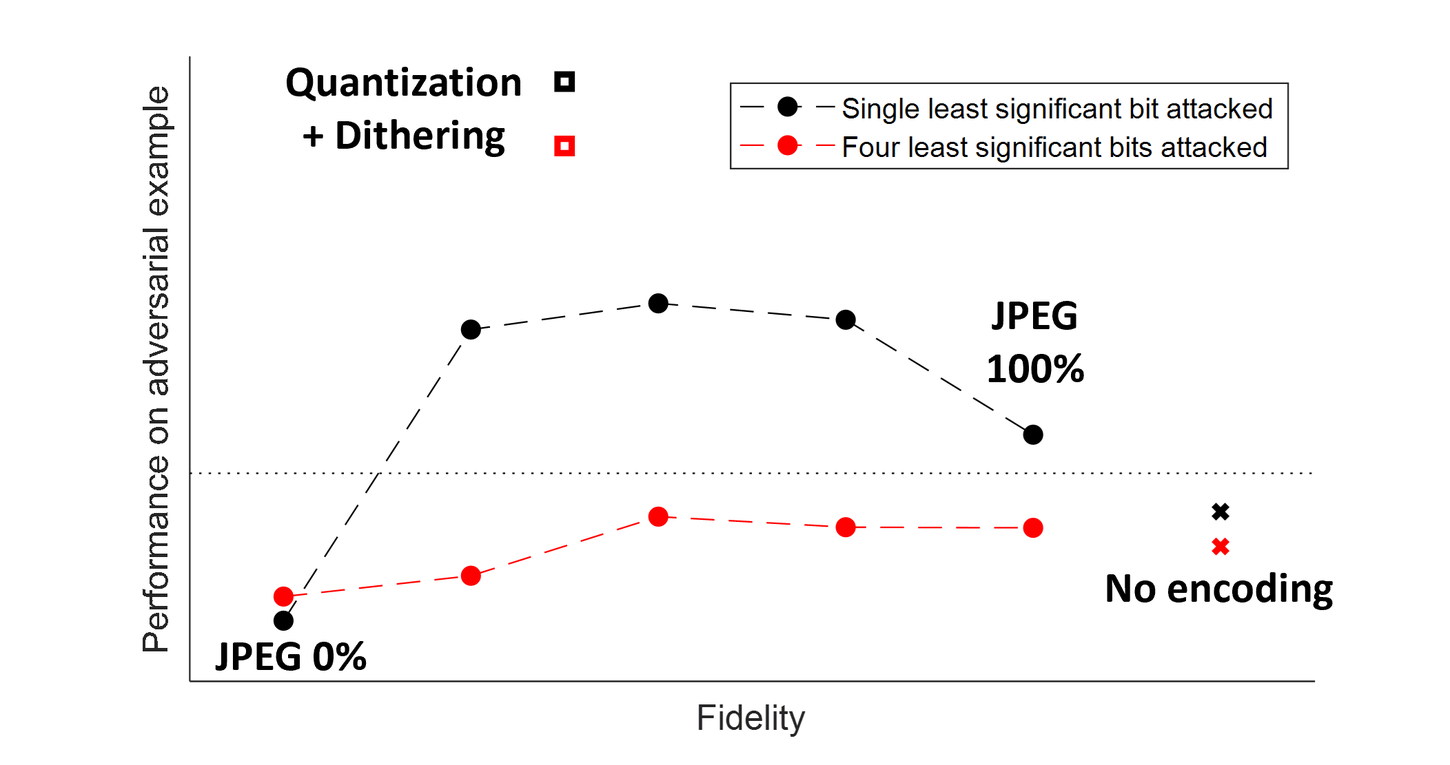
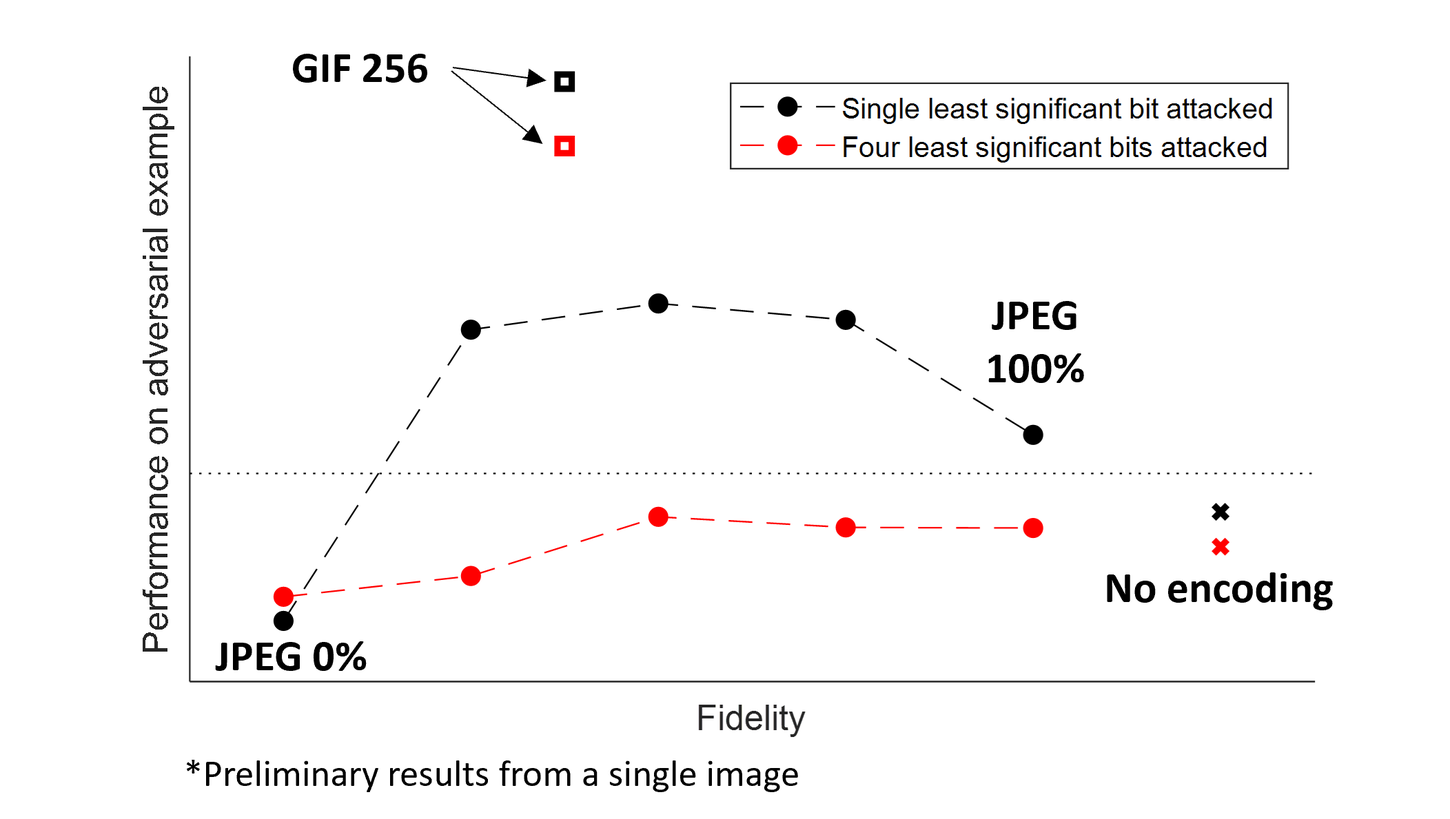
build

diff --git a/docs/searchindex.js b/docs/searchindex.js
@@ -1,1 +1,1 @@
-Search.setIndex({docnames:["compress","critique_50y_fairness","critique_paper2","failing_loudly","index","present_paper10","proposal","survey_of_datasets","uncertainty_quantification"],envversion:{"sphinx.domains.c":2,"sphinx.domains.changeset":1,"sphinx.domains.citation":1,"sphinx.domains.cpp":5,"sphinx.domains.index":1,"sphinx.domains.javascript":2,"sphinx.domains.math":2,"sphinx.domains.python":3,"sphinx.domains.rst":2,"sphinx.domains.std":2,sphinx:56},filenames:["compress.ipynb","critique_50y_fairness.ipynb","critique_paper2.ipynb","failing_loudly.ipynb","index.md","present_paper10.ipynb","proposal.ipynb","survey_of_datasets.ipynb","uncertainty_quantification.ipynb"],objects:{},objnames:{},objtypes:{},terms:{"0":[0,1,3,5,7],"0074":7,"0189":7,"0198":7,"0403":7,"0675":7,"1":[0,1,2,3,6,7,8],"10":[6,7],"11":7,"119":0,"12":7,"128":0,"13":7,"14":7,"15":7,"16":[0,7],"17":7,"1714":7,"18":[1,7],"19":7,"1964":7,"1970":5,"2":[0,3,4,7,8],"20":[0,1],"200":6,"2009":8,"2018":5,"2020":0,"22":7,"24":[2,7],"25":7,"255":7,"26":0,"28":[2,7],"29":7,"2p":5,"2x2":0,"3":[0,3,6,7,8],"30":7,"31":7,"32":7,"33":7,"3398":7,"34":7,"4":[0,7,8],"40":7,"41":7,"43":7,"45":7,"46":7,"48":2,"5":[5,7],"50":[2,4,7],"52":0,"55":[0,2],"58":2,"6":7,"60":[5,7],"6031":7,"6299":7,"64":0,"6414":7,"6452":7,"7":7,"74":0,"7584":7,"79":0,"8":[0,7],"83":7,"84":0,"9":7,"90":7,"92":7,"93":7,"94":7,"9474":7,"95":7,"\u03bc":3,"\u03bc3":3,"case":[0,2],"class":[4,6],"do":[3,4],"export":3,"final":[5,7],"function":[1,4,6,7],"import":0,"new":[3,4],"public":0,"true":[3,7,8],"try":[5,8],"while":[0,5,6],A:[1,2,4,5],At:[5,6],But:5,For:[5,6],If:[2,5],In:[2,3,5,6],Is:3,It:[5,6],No:8,Not:8,One:[0,6],That:5,The:[1,5,6,7,8],There:5,These:2,To:[5,6],_:[5,7],_j:5,_s:7,_x:5,a_1:7,a_2:7,a_3:7,a_4:7,a_5:7,a_6:7,about:[0,2,3,5,6],abroca:7,absolut:[5,7],acc:7,accord:8,account:5,accumul:0,accur:[6,8],accuraci:[0,4,8],achiev:[0,1,6],acoust:8,across:8,act:7,action:2,activ:3,actual:[5,8],ad:5,adapt:4,add:5,addit:6,adv:0,advanc:4,advantag:[6,8],adversari:4,advis:1,affect:5,after:5,ag:[1,2,7],against:4,agent:2,ai:2,air:8,aleator:4,algorithm:[1,7],align:7,all:[5,6,7],allow:[5,6],almost:5,alreadi:0,also:[2,5],alter:0,alwai:1,amazon:6,ambigu:5,amer:7,amount:6,an:[0,2,4,5,8],analysi:[1,2,3],ani:[0,5,6],anoth:6,answer:1,anyon:1,anyth:5,applic:4,approach:[3,4],approx:5,approxim:[4,7],ar:[0,1,5,6,7],architectur:[0,5,6],area:[0,4],around:8,artifact:6,asian:7,assum:0,attack:[0,5,6],attain:0,attribut:7,audio:[4,6],author:[1,2,3,5],autoencod:[3,4],avail:7,avoid:0,awar:4,back:[1,2,5],backdoor:0,background:4,backprop:4,balanc:[1,4],bar:7,base:[6,8],baselin:[4,7],basic:5,batch:0,bay:4,bayesian:4,becaus:6,been:[0,3,6],befor:[0,6],begin:[0,7],behavior:[1,6],being:[5,6],below:7,best:5,beta:5,between:[1,4,5,8],bfloat16:0,bias:4,billion:6,bin:7,binari:0,bit:[0,6],black:[3,4,7],block:0,bn:7,bnn:[4,8],both:4,boundari:7,box:[3,4,7],brain:8,build:8,c:8,cal:7,calcul:5,came:5,can:[0,1,2,4,5,6,8],cannot:[6,7],captain:7,car:2,care:2,carlo:4,cascad:7,cat:7,categor:7,caus:[0,6],causal:3,caveat:4,censu:7,chacter:8,chang:[1,3,5,6,7,8],channel:6,character:8,check:[5,8],choos:[0,6],chosen:0,cifar:6,civil:7,classif:4,classifi:[0,7],clearli:5,code:0,codebook:[0,3],codec:6,codepend:8,coder:6,coeffici:[0,6],cognit:4,collect:[4,8],color:3,colormap:3,combin:[7,8],command:[0,6],common:[5,8],commonli:[5,6],compa:7,compani:6,compar:[0,4,6],compel:2,complet:7,complex:[5,6],compon:3,compress:[4,6],comput:[6,8],concentr:6,condit:[7,8],conduct:6,confid:[0,8],conjunct:6,connect:3,consid:[1,5,8],consist:8,construct:[4,6],contain:0,contamin:0,content:0,context:4,control:4,convent:[3,6],convinc:2,convolut:3,cook:4,coral:1,correct:0,correl:1,cosh:5,cost:6,could:5,counterfactu:4,counterproduct:6,court:7,creat:6,credit:2,criminolog:7,critiqu:4,current:8,curv:7,d:[5,7],d_i:5,dagger:5,dai:7,dan:6,darkon:5,darktest:3,data:[0,4,7,8],dataset:[0,2,4],date:5,debug:[1,4,6],decis:7,decod:6,deep:4,defend:4,defin:5,definit:[4,5],degre:[5,7],delta_z:5,demograph:1,denni:5,denot:5,dens:5,densiti:[5,6],depend:[1,8],deploi:5,dept:8,deriv:5,describ:5,descript:7,desir:[0,7],destefano:4,det:8,detail:0,detect:[0,4,5],determin:[1,7,8],deviat:5,diabet:7,did:5,differ:[0,5],differenti:4,difficult:[5,8],dimension:[4,8],direct:[3,5],directli:6,disadvantag:8,discard:0,discoveri:3,discret:[3,7],discrimin:7,discrimint:4,distanc:4,distort:5,distribut:[0,3,4,7,8],diverg:[3,7,8],divid:6,dnn:5,document:[2,5],doe:[0,4],domain:[6,7],don:[2,5],dot:7,down:0,dr:4,drift:[3,6,8],drop:8,dropout:4,durat:2,dure:1,e:[1,5,7,8],each:[2,6,7],easier:[6,8],edg:7,educ:7,effect:5,effici:[0,5,7],either:5,elimin:6,email:0,empir:4,enchanc:8,encod:[0,4],end:[0,6,7],energi:8,enough:7,ensembl:4,ensur:7,entropi:0,eo:7,epistem:4,epsilon:[0,5],equal:4,equat:8,erm:1,error:[5,8],estim:[5,8],etc:2,euclidian:5,evalu:[5,6],evas:4,eventu:1,exact:[5,7],exactli:5,exam:7,examin:[1,5,7],exampl:[0,1,4,7,8],exce:5,except:5,excess:8,exchang:2,exclud:5,exhaust:5,exp:5,expans:8,expect:6,expens:8,experi:[4,8],experiment:6,explain:6,explan:2,explanatori:2,explicitli:0,exploit:[0,2],explor:[3,7],extrem:[6,8],f:[2,5,7],f_:8,f_r:8,facebook:6,facial:0,fail:[4,7],fair:[4,6],fals:7,fast:[4,8],faster:6,featur:[1,4,6,7],femal:[1,7],few:7,fifteen:7,filter:0,financ:7,find:[0,4],fine:5,firefight:7,first:5,fit:8,five:7,fix:6,fn:[1,7],forward:4,foss:5,four:0,fp16:0,fp32:0,fp:[0,1,7],fpu:0,frac:[5,7,8],frame:8,free:[2,8],frequenc:[0,6],from:[0,1,3,5,6,8],full:0,fulli:3,further:5,g:[1,5],gain:5,gamma:7,gateaux:5,gaussian:[3,8],gender:7,gener:[5,6,7,8],german:2,get:[5,7],gflop:0,give:5,go:[0,5],goal:[0,5],googl:6,gotten:5,govern:8,grade:7,gradient:[4,5,6],graph:7,graphic:3,ground:7,group:7,gt:8,guarante:5,guidanc:2,h:[5,8],h_:5,ha:[2,6],had:5,handl:7,hard:3,harm:[3,4],hat:[5,7,8],have:[3,5,6,8],head:[2,5],healthcar:7,heavili:7,help:4,here:[2,5],heurist:5,hevc:6,high:[0,6,7,8],highest:5,hing:5,hous:2,how:[1,2,3,4,8],howev:[5,6,8],human:[0,2,8],hurt:5,hv:5,hypothes:6,i:[5,7,8],i_:5,idea:5,identifi:[4,7],ignor:[7,8],ii:5,il:5,imag:[0,6],imagin:2,imbalanc:7,impair:2,impercept:[0,6],imperfect:8,impli:2,imposs:5,includ:5,incom:7,incorpor:7,incorrect:0,increas:[5,6],indian:7,indic:7,individu:[1,5,6],infer:[3,4],infinitesim:5,influenc:[4,6],influenti:5,inform:[3,6],initi:[6,8],innerhtml:[2,5],input:[0,6],insight:[4,5],instead:[0,5],institut:6,int_:7,integr:7,interpret:[0,4],intersect:1,intersection:1,interven:4,intervent:7,introduc:0,invers:[4,5],involv:2,island:7,issu:6,ith:5,j:[5,8],jacobelli:6,job:2,jpeg2dct:6,jpeg:6,jsserv:3,just:[2,5],k:0,kdd:7,keep:5,kept:0,kl:[3,8],know:[5,8],knowledg:[0,8],known:5,l:[5,7],label:0,lack:8,laplacian:4,larg:[0,5,6],larger:[4,6],latent:8,layer:[3,6],lead:1,leaf:7,learn:[0,4,6],least:[0,5,6],left:[0,5,7,8],leq:5,less:6,let:5,leverag:[3,4],librari:[5,6],lieuten:7,like:[5,6],likelihood:7,lim_:5,limit:[5,8],linear:5,littl:[0,2],ll:5,loan:4,locat:5,log:5,logist:7,look:[1,5],loos:5,loss:[3,4],lossi:4,loudli:4,low:[7,8],lower:8,m:[2,7],mac:0,machin:4,magic:0,magnitud:5,mai:[1,5,6],make:[1,2,5,6,7,8],male:[1,7],mani:[3,5,8],map:8,markdown:3,markers:3,mass:5,massiv:5,match:4,mathbf:[5,8],mathcal:5,mathemat:7,matrix:5,matthew:6,max_:7,maxim:7,maximum:7,mayb:5,mean:[0,2,5],measur:[4,5,7,8],medium:6,meshscatt:3,method:[4,5,8],mib:0,might:[2,5],mind:5,mini:0,minim:[1,2,3,5,8],mislabel:4,mislead:5,mismatch:4,model:[0,2,3,4,6,8],modif:7,modifi:2,mont:4,more:[0,1,2,5,6],most:[0,5,6,7],mostli:[0,7],motiv:4,move:[5,7],mpeg:6,ms:3,mu:5,much:5,multipl:5,multipli:[0,5],must:6,n:[5,7],nabla:[5,8],nabla_xj:0,name:4,nearest:5,necessarili:6,need:[2,5,6],neg:5,neighbor:5,network:[4,5,6],neural:[4,5,6],never:8,newton:5,next:5,nice:5,nn:8,node:7,non:7,nonwhit:7,normal:5,notebook:5,num:7,number:[5,6],numer:[7,8],object:7,observ:5,obtain:[7,8],occup:2,occur:[3,7],odd:4,offens:1,offlin:3,often:[5,8],one:[0,2,3,6],ones:6,onli:[6,7],ood:8,opposit:6,optim:[5,7,8],oral:7,organ:6,origin:[5,6,7],other:[5,6,7],our:[2,5,6,8],outlier:5,output:[3,7],over:[2,5,7,8],overal:[0,5],overfit:4,overview:4,p:[5,7,8],pac:7,page:3,pai:2,paper:[3,4,5,7,8],paramet:[3,5,6,7,8],parenthes:5,pariti:4,part:0,parti:6,partial:[0,5,6,8],particular:5,pass:[0,7],pearlmutt:5,peopl:2,per:[0,6],percept:[4,6],perfectli:7,perform:[0,5,6,8],person:2,pert:5,perturb:[4,5],pick:5,pictur:5,pipelin:6,pixel:[0,6],place:4,plan:6,plug:5,point:5,poison:4,pollut:8,pomegran:7,poor:6,popular:5,posit:[5,7],possibl:[0,4,7,8],post:7,posterior:8,potenti:6,power:[0,6],pre:6,precis:0,predict:[1,2,4,6,7],predictor:3,preliminari:0,present:5,preserv:[0,7],pretti:5,preval:5,prevent:[4,8],previous:8,primarili:6,prime:5,principl:3,prior:[0,1,3],problem:4,procedur:[1,8],process:[0,6,7,8],product:5,promot:7,propag:4,propos:[0,3,4],protect:7,prove:2,provid:[2,8],proxi:6,ps:5,purpos:2,python:6,qin:6,quadrat:4,qualiti:[6,8],quantif:4,quantiti:5,quantiz:[3,4,6],queryselector:[2,5],quickli:5,quit:5,r:[1,5,8],race:7,rais:6,random:3,randomli:8,rate:[5,6],rather:6,ratio:[0,5,6,7],raw:6,re:[2,5],readmit:7,realist:6,reason:5,receiv:6,recid:7,recidiv:7,recognit:0,reconstruct:[3,8],reduc:6,reduct:4,refer:4,regard:6,region:5,regress:[5,7],regular:[7,8],relat:5,relationship:[5,7],relev:5,reliabl:8,remain:6,remov:[5,6],repay:4,repeat:6,repitit:8,replac:5,repres:[0,7],represent:[4,6,8],reproduc:6,requir:[0,6],resampl:6,resnet20:0,resolut:6,resort:6,resourc:8,respect:[5,6],restist:8,result:[0,1,5,6,7],reveal:2,review:4,rgb:6,rho_:1,ricci:4,right:[0,5,7,8],rigor:5,risk:[1,2,5],robust:[4,8],roc:4,roll:5,roughli:5,rule:7,s:[0,1,4,7,8],same:[1,5,6],sampl:[0,4,6,7,8],sanit:4,save:2,scalabl:8,scientist:6,score:4,scr:7,second:[0,5],see:5,seen:8,segment:0,segnet:8,self:[5,7],semant:0,sensit:[6,7],separ:1,set:[5,6],sever:3,sex:[1,2,7],shallow:8,shift:4,should:[3,5,7,8],shown:[0,6,7],sigma_i:8,sigma_r:8,sigma_v:8,sign:4,signific:[0,6],similar:[5,6],simpl:5,simplest:5,simplifi:6,simultan:4,sinc:6,singl:5,six:4,size:[0,6],skill:2,slide:[0,1,2,3,5,7,8],small:[0,5,6,7],smaller:[6,8],smooth:5,so:[5,6],societi:7,softmax:3,softwar:7,some:[1,5,8],someth:[2,5],sourc:[0,2,4],sp:7,space:[0,5,6,8],spam:0,spars:5,specif:[0,7],specul:6,speech:[0,6],spread:5,sqrt:8,squar:5,standard:6,start:5,statist:[4,5,8],step:5,still:0,stochast:8,stop:[0,5],store:6,straight:6,strong:8,structur:4,student:7,studi:4,subgroup:1,subject:[0,7],subsequ:5,suffici:1,suggest:2,sum:5,sum_:[5,7],summari:[4,5],supervis:2,suppos:[4,5],suprem:7,surround:5,survei:4,t:[2,5,7,8],tabular:7,takeawai:4,target:7,task:6,taylor:8,techniqu:[3,4],tell:5,test:[0,4,5,6],text:[0,7,8],th:5,than:6,thei:[0,1,2,5,6],them:[1,2,6,7],theoret:8,theta:[0,5],thi:[1,2,5,6],think:[2,5],third:[5,6],three:[4,6],threshold:[3,7],time:[0,2,5,6],tn:[1,7],top:5,total:7,toward:7,tp:[1,7],tradeoff:5,train:[1,3,4,8],transform:[0,6],translat:0,trasform:6,tri:5,trick:5,truth:7,tune:6,two:[6,7],type:[1,2,5,6],typic:6,un:4,unabl:6,uncertainti:4,understand:4,unfair:[1,7],uniform:3,unit:[0,8],unprotect:7,unquant:6,unskil:2,untrain:3,up:[0,5],updat:5,upload:0,upweight:5,uq:8,us:[0,1,2,3,5,6,7,8],user:2,usual:0,v:[4,8],vae:3,valid:6,valu:[2,5,6,7,8],variabl:8,variat:[3,4,5],vastli:6,ve:5,vector:[0,3,5],veri:5,version:4,vgg13:0,via:[0,4],video:6,violat:7,visual:4,voltag:8,vq:[3,4],vs:[4,6],vulner:5,w:3,wa:[5,6,7],wai:[0,2,4,5],want:[0,2,5],wave:8,we:[2,3,5,6,7,8],weak:8,weight:[3,6,8],well:[0,4,6,8],wglmaki:3,what:[2,3,4,5],whatev:2,when:[0,5,6,7],where:[0,5],whether:7,which:[1,5,6],white:7,why:5,widehat:7,without:[2,5],word:0,work:[0,2,4,8],would:[2,5],written:7,x:[0,5],x_:[0,8],x_i:5,xai:2,y3:3,y:[0,3,5,7,8],y_:[5,8],y_i:5,ye:0,year:[4,7],you:5,your:5,z:[3,5],z_1:5,z_2:5,z_:5},titles:["Lossy compression to prevent evasion and poisoning","Critique of \u201c50 Years of Test (Un)fairness\u201d","Critique of Paper 2","Critique of Critique of \u201cFailing Loudly: An Empirical Study of Methods for Detecting Dataset Shift\u201d","Contents","Understanding Black-box Predictions via Influence functions","Proposal: Training on Lossy Encoded Data","A survey on datasets for fairness-aware machine learning","A review of uncertainty quantification in deep learning"],titleterms:{"1":5,"2":[2,5],"50":1,"class":7,"do":5,"function":5,"new":5,A:[7,8],accuraci:7,adapt:3,advanc:3,adversari:5,against:[0,7],aleator:8,an:3,applic:5,approach:[5,6],approxim:[5,8],area:7,audio:0,autoencod:8,awar:7,background:5,backprop:8,balanc:7,baselin:0,bay:8,bayesian:[7,8],between:7,bias:2,black:5,bnn:0,both:7,box:5,can:7,carlo:8,caveat:[5,7],cheaper:5,classif:0,cognit:2,collect:5,compar:5,compress:0,comput:5,construct:5,content:4,context:1,control:2,cook:5,counterfactu:2,critiqu:[1,2,3],data:[1,5,6],dataset:[3,6,7],debug:5,deep:8,defend:0,definit:1,destefano:7,detect:3,differenti:5,dimension:3,discrimint:7,distanc:5,distribut:5,doe:5,dr:3,dropout:8,empir:[3,5],encod:6,ensembl:8,epistem:8,equal:7,evas:0,even:5,exampl:[2,5],exist:5,expens:5,experi:[5,6],fail:3,fair:[1,7],fast:0,featur:0,find:5,forward:8,gradient:0,harm:5,help:5,hessian:5,how:[0,5,7],identifi:5,infer:8,influenc:5,insight:2,interpret:1,interven:7,invers:8,issu:5,laplacian:8,larger:0,learn:[3,7,8],leav:5,leverag:5,loan:2,local:5,loss:5,lossi:[0,6],loudli:3,machin:7,match:0,measur:1,method:[0,3],mislabel:5,mismatch:5,model:[1,5,7],mont:8,motiv:6,name:7,network:[7,8],neural:8,odd:7,one:5,out:5,overfit:5,overview:7,paper:2,pariti:7,percept:0,perturb:0,place:5,poison:0,possibl:6,predict:[5,8],prevent:0,problem:[6,8],propag:8,propos:6,quadrat:5,quantif:8,quantiz:0,reduct:3,refer:8,repay:2,represent:3,review:8,ricci:7,robust:0,roc:7,s:5,sampl:5,sanit:0,score:7,shape:5,shift:3,sign:0,simultan:7,six:2,sourc:8,statist:7,store:5,structur:7,studi:3,summari:[7,8],suppos:1,survei:7,takeawai:[1,2],techniqu:8,test:1,three:7,train:[0,5,6],un:1,uncertainti:8,understand:5,v:7,variat:8,version:5,via:5,visual:0,vq:0,vs:[1,3],wai:7,well:5,what:1,work:5,year:1}})
+Search.setIndex({docnames:["compress","critique_50y_fairness","critique_paper2","failing_loudly","index","present_paper10","proposal","survey_of_datasets","uncertainty_quantification"],envversion:{"sphinx.domains.c":2,"sphinx.domains.changeset":1,"sphinx.domains.citation":1,"sphinx.domains.cpp":5,"sphinx.domains.index":1,"sphinx.domains.javascript":2,"sphinx.domains.math":2,"sphinx.domains.python":3,"sphinx.domains.rst":2,"sphinx.domains.std":2,sphinx:56},filenames:["compress.ipynb","critique_50y_fairness.ipynb","critique_paper2.ipynb","failing_loudly.ipynb","index.md","present_paper10.ipynb","proposal.ipynb","survey_of_datasets.ipynb","uncertainty_quantification.ipynb"],objects:{},objnames:{},objtypes:{},terms:{"0":[0,1,3,5,7],"0074":7,"0189":7,"0198":7,"0403":7,"0675":7,"1":[0,1,2,3,6,7,8],"10":[6,7],"11":7,"119":0,"12":7,"128":0,"13":7,"14":7,"15":7,"16":[0,7],"17":7,"1714":7,"18":[1,7],"19":7,"1964":7,"1970":5,"2":[0,3,4,7,8],"20":[0,1],"200":6,"2009":8,"2018":5,"2020":0,"22":7,"24":[2,7],"25":7,"255":7,"26":0,"28":[2,7],"29":7,"2p":5,"2x2":0,"3":[0,3,6,7,8],"30":7,"31":7,"32":7,"33":7,"3398":7,"34":7,"4":[0,7,8],"40":7,"41":7,"43":7,"45":7,"46":7,"48":2,"5":[5,7],"50":[2,4,7],"52":0,"55":[0,2],"58":2,"6":7,"60":[5,7],"6031":7,"6299":7,"64":0,"6414":7,"6452":7,"7":7,"74":0,"7584":7,"79":0,"8":[0,7],"83":7,"84":0,"9":7,"90":7,"92":7,"93":7,"94":7,"9474":7,"95":7,"\u03bc":3,"\u03bc3":3,"case":[0,2],"class":[4,6],"do":[3,4],"export":3,"final":[5,7],"function":[1,4,6,7],"import":0,"new":[3,4],"public":0,"true":[3,7,8],"try":[5,8],"while":[0,5,6],A:[1,2,4,5],At:[5,6],But:5,For:[5,6],If:[2,5],In:[2,3,5,6],Is:3,It:[5,6],No:8,Not:8,One:[0,6],That:5,The:[1,5,6,7,8],There:5,These:2,To:[5,6],_:[5,7],_j:5,_s:7,_x:5,a_1:7,a_2:7,a_3:7,a_4:7,a_5:7,a_6:7,about:[0,2,3,5,6],abroca:7,absolut:[5,7],acc:7,accord:8,account:5,accumul:0,accur:[6,8],accuraci:[0,4,8],achiev:[0,1,6],acoust:8,across:8,act:7,action:2,activ:3,actual:[5,8],ad:5,adapt:4,add:5,addit:6,adv:0,advanc:4,advantag:[6,8],adversari:4,advis:1,affect:5,after:5,ag:[1,2,7],against:4,agent:2,ai:2,air:8,aleator:4,algorithm:[1,7],align:7,all:[5,6,7],allow:[5,6],almost:5,alreadi:0,also:[2,5],alter:0,alwai:1,amazon:6,ambigu:5,amer:7,amount:6,an:[0,2,4,5,8],analysi:[1,2,3],ani:[0,5,6],anoth:6,answer:1,anyon:1,anyth:5,applic:4,approach:[3,4],approx:5,approxim:[4,7],ar:[0,1,5,6,7],architectur:[0,5,6],area:[0,4],around:8,artifact:6,asian:7,assum:0,attack:[0,5,6],attain:0,attribut:7,audio:[4,6],author:[1,2,3,5],autoencod:[3,4],avail:7,avoid:0,awar:4,back:[1,2,5],backdoor:0,background:4,backprop:4,balanc:[1,4],bar:7,base:[6,8],baselin:[4,7],basic:5,batch:0,bay:4,bayesian:4,becaus:6,been:[0,3,6],befor:[0,6],begin:[0,7],behavior:[1,6],being:[5,6],below:7,best:5,beta:5,between:[1,4,5,8],bfloat16:0,bias:4,billion:6,bin:7,binari:0,bit:[0,6],black:[3,4,7],block:0,bn:7,bnn:[4,8],both:4,boundari:7,box:[3,4,7],brain:8,build:8,c:8,cal:7,calcul:5,came:5,can:[0,1,2,4,5,6,8],cannot:[6,7],captain:7,car:2,care:2,carlo:4,cascad:7,cat:7,categor:7,caus:[0,6],causal:3,caveat:4,censu:7,chacter:8,chang:[1,3,5,6,7,8],channel:6,character:8,check:[5,8],choos:[0,6],chosen:0,cifar:6,civil:7,classif:4,classifi:[0,7],clearli:5,code:0,codebook:[0,3],codec:6,codepend:8,coder:6,coeffici:[0,6],cognit:4,collect:[4,8],color:3,colormap:3,combin:[7,8],command:[0,6],common:[5,8],commonli:[5,6],compa:7,compani:6,compar:[0,4,6],compel:2,complet:7,complex:[5,6],compon:3,compress:[4,6],comput:[6,8],concentr:6,condit:[7,8],conduct:6,confid:[0,8],conjunct:6,connect:3,consid:[1,5,8],consist:8,construct:[4,6],contain:0,contamin:0,content:0,context:4,control:4,convent:[3,6],convinc:2,convolut:3,cook:4,coral:1,correct:0,correl:1,cosh:5,cost:6,could:5,counterfactu:4,counterproduct:6,court:7,creat:6,credit:2,criminolog:7,critiqu:4,current:8,curv:7,d:[5,7],d_i:5,dagger:5,dai:7,dan:6,darkon:5,darktest:3,data:[0,4,7,8],dataset:[0,2,4],date:5,debug:[1,4,6],decis:7,decod:6,deep:4,defend:4,defin:5,definit:[4,5],degre:[5,7],delta_z:5,demograph:1,denni:5,denot:5,dens:5,densiti:[5,6],depend:[1,8],deploi:5,dept:8,deriv:5,describ:5,descript:7,desir:[0,7],destefano:4,det:8,detail:0,detect:[0,4,5],determin:[1,7,8],deviat:5,diabet:7,did:5,differ:[0,5],differenti:4,difficult:[5,8],dimension:[4,8],direct:[3,5],directli:6,disadvantag:8,discard:0,discoveri:3,discret:[3,7],discrimin:7,discrimint:4,distanc:4,distort:5,distribut:[0,3,4,7,8],diverg:[3,7,8],divid:6,dnn:5,document:[2,5],doe:[0,4],domain:[6,7],don:[2,5],dot:7,down:0,dr:4,drift:[3,6,8],drop:8,dropout:4,durat:2,dure:1,e:[1,5,7,8],each:[2,6,7],easier:[6,8],edg:7,educ:7,effect:5,effici:[0,5,7],either:5,elimin:6,email:0,empir:4,enchanc:8,encod:[0,4],end:[0,6,7],energi:8,enough:7,ensembl:4,ensur:7,entropi:0,eo:7,epistem:4,epsilon:[0,5],equal:4,equat:8,erm:1,error:[5,8],estim:[5,8],etc:2,euclidian:5,evalu:[5,6],evas:4,eventu:1,exact:[5,7],exactli:5,exam:7,examin:[1,5,7],exampl:[0,1,4,7,8],exce:5,except:5,excess:8,exchang:2,exclud:5,exhaust:5,exp:5,expans:8,expect:6,expens:8,experi:[4,8],experiment:6,explain:6,explan:2,explanatori:2,explicitli:0,exploit:[0,2],explor:[3,7],extrem:[6,8],f:[2,5,7],f_:8,f_r:8,facebook:6,facial:0,fail:[4,7],fair:[4,6],fals:7,fast:[4,8],faster:6,featur:[1,4,6,7],femal:[1,7],few:7,fifteen:7,filter:0,financ:7,find:[0,4],fine:5,firefight:7,first:5,fit:8,five:7,fix:6,fn:[1,7],forward:4,foss:5,four:0,fp16:0,fp32:0,fp:[0,1,7],fpu:0,frac:[5,7,8],frame:8,free:[2,8],frequenc:[0,6],from:[0,1,3,5,6,8],full:0,fulli:3,further:5,g:[1,5],gain:5,gamma:7,gateaux:5,gaussian:[3,8],gender:7,gener:[5,6,7,8],german:2,get:[5,7],gflop:0,give:5,go:[0,5],goal:[0,5],googl:6,gotten:5,govern:8,grade:7,gradient:[4,5,6],graph:7,graphic:3,ground:7,group:7,gt:8,guarante:5,guidanc:2,h:[5,8],h_:5,ha:[2,6],had:5,handl:7,hard:3,harm:[3,4],hat:[5,7,8],have:[3,5,6,8],head:[2,5],healthcar:7,heavili:7,help:4,here:[2,5],heurist:5,hevc:6,high:[0,6,7,8],highest:5,hing:5,hous:2,how:[1,2,3,4,8],howev:[5,6,8],human:[0,2,8],hurt:5,hv:5,hypothes:6,i:[5,7,8],i_:5,idea:5,identifi:[4,7],ignor:[7,8],ii:5,il:5,imag:[0,6],imagin:2,imbalanc:7,impair:2,impercept:[0,6],imperfect:8,impli:2,imposs:5,includ:5,incom:7,incorpor:7,incorrect:0,increas:[5,6],indian:7,indic:7,individu:[1,5,6],infer:[3,4],infinitesim:5,influenc:[4,6],influenti:5,inform:[3,6],initi:[6,8],innerhtml:[2,5],input:[0,6],insight:[4,5],instead:[0,5],institut:6,int_:7,integr:7,interpret:[0,4],intersect:1,intersection:1,interven:4,intervent:7,introduc:0,invers:[4,5],involv:2,island:7,issu:6,ith:5,j:[5,8],jacobelli:6,job:2,jpeg2dct:6,jpeg:6,jsserv:3,just:[2,5],k:0,kdd:7,keep:5,kept:0,kl:[3,8],know:[5,8],knowledg:[0,8],known:5,l:[5,7],label:0,lack:8,laplacian:4,larg:[0,5,6],larger:[4,6],latent:8,layer:[3,6],lead:1,leaf:7,learn:[0,4,6],least:[0,5,6],left:[0,5,7,8],leq:5,less:6,let:5,leverag:[3,4],librari:[5,6],lieuten:7,like:[5,6],likelihood:7,lim_:5,limit:[5,8],linear:5,littl:[0,2],ll:5,loan:4,locat:5,log:5,logist:7,look:[1,5],loos:5,loss:[3,4],lossi:4,loudli:4,low:[7,8],lower:8,m:[2,7],mac:0,machin:4,magic:0,magnitud:5,mai:[1,5,6],make:[1,2,5,6,7,8],male:[1,7],mani:[3,5,8],map:8,markdown:3,markers:3,mass:5,massiv:5,match:4,mathbf:[5,8],mathcal:5,mathemat:7,matrix:5,matthew:6,max_:7,maxim:7,maximum:7,mayb:5,mean:[0,2,5],measur:[4,5,7,8],medium:6,meshscatt:3,method:[4,5,8],mib:0,might:[2,5],mind:5,mini:0,minim:[1,2,3,5,8],mislabel:4,mislead:5,mismatch:4,model:[0,2,3,4,6,8],modif:7,modifi:2,mont:4,more:[0,1,2,5,6],most:[0,5,6,7],mostli:[0,7],motiv:4,move:[5,7],mpeg:6,ms:3,mu:5,much:5,multipl:5,multipli:[0,5],must:6,n:[5,7],nabla:[5,8],nabla_xj:0,name:4,nearest:5,necessarili:6,need:[2,5,6],neg:5,neighbor:5,network:[4,5,6],neural:[4,5,6],never:8,newton:5,next:5,nice:5,nn:8,node:7,non:7,nonwhit:7,normal:5,notebook:5,num:7,number:[5,6],numer:[7,8],object:7,observ:5,obtain:[7,8],occup:2,occur:[3,7],odd:4,offens:1,offlin:3,often:[5,8],one:[0,2,3,6],ones:6,onli:[6,7],ood:8,opposit:6,optim:[5,7,8],oral:7,organ:6,origin:[5,6,7],other:[5,6,7],our:[2,5,6,8],outlier:5,output:[3,7],over:[2,5,7,8],overal:[0,5],overfit:4,overview:4,p:[5,7,8],pac:7,page:3,pai:2,paper:[3,4,5,7,8],paramet:[3,5,6,7,8],parenthes:5,pariti:4,part:0,parti:6,partial:[0,5,6,8],particular:5,pass:[0,7],pearlmutt:5,peopl:2,per:[0,6],percept:[4,6],perfectli:7,perform:[0,5,6,8],person:2,pert:5,perturb:[4,5],pick:5,pictur:5,pipelin:6,pixel:[0,6],place:4,plan:6,plug:5,point:5,poison:4,pollut:8,pomegran:7,poor:6,popular:5,posit:[5,7],possibl:[0,4,7,8],post:7,posterior:8,potenti:6,power:[0,6],pre:6,precis:0,predict:[1,2,4,6,7],predictor:3,present:5,preserv:[0,7],pretti:5,preval:5,prevent:[4,8],previous:8,primarili:6,prime:5,principl:3,prior:[0,1,3],problem:4,procedur:[1,8],process:[0,6,7,8],product:5,promot:7,propag:4,propos:[0,3,4],protect:7,prove:2,provid:[2,8],proxi:6,ps:5,purpos:2,python:6,qin:6,quadrat:4,qualiti:[6,8],quantif:4,quantiti:5,quantiz:[3,4,6],queryselector:[2,5],quickli:5,quit:5,r:[1,5,8],race:7,rais:6,random:3,randomli:8,rate:[5,6],rather:6,ratio:[0,5,6,7],raw:6,re:[2,5],readmit:7,realist:6,reason:5,receiv:6,recid:7,recidiv:7,recognit:0,reconstruct:[3,8],reduc:6,reduct:4,refer:4,regard:6,region:5,regress:[5,7],regular:[7,8],relat:5,relationship:[5,7],relev:5,reliabl:8,remain:6,remov:[5,6],repay:4,repeat:6,repitit:8,replac:5,repres:[0,7],represent:[4,6,8],reproduc:6,requir:[0,6],resampl:6,resnet20:0,resolut:6,resort:6,resourc:8,respect:[5,6],restist:8,result:[1,5,6,7],reveal:2,review:4,rgb:6,rho_:1,ricci:4,right:[0,5,7,8],rigor:5,risk:[1,2,5],robust:[4,8],roc:4,roll:5,roughli:5,rule:7,s:[0,1,4,7,8],same:[1,5,6],sampl:[0,4,6,7,8],sanit:4,save:2,scalabl:8,scientist:6,score:4,scr:7,second:[0,5],see:5,seen:8,segment:0,segnet:8,self:[5,7],semant:0,sensit:[6,7],separ:1,set:[5,6],sever:3,sex:[1,2,7],shallow:8,shift:4,should:[3,5,7,8],shown:[0,6,7],sigma_i:8,sigma_r:8,sigma_v:8,sign:4,signific:[0,6],similar:[5,6],simpl:5,simplest:5,simplifi:6,simultan:4,sinc:6,singl:5,six:4,size:[0,6],skill:2,slide:[0,1,2,3,5,7,8],small:[0,5,6,7],smaller:[6,8],smooth:5,so:[5,6],societi:7,softmax:3,softwar:7,some:[1,5,8],someth:[2,5],sourc:[0,2,4],sp:7,space:[0,5,6,8],spam:0,spars:5,specif:[0,7],specul:6,speech:[0,6],spread:5,sqrt:8,squar:5,standard:6,start:5,statist:[4,5,8],step:5,still:0,stochast:8,stop:[0,5],store:6,straight:6,strong:8,structur:4,student:7,studi:4,subgroup:1,subject:[0,7],subsequ:5,suffici:1,suggest:2,sum:5,sum_:[5,7],summari:[4,5],supervis:2,suppos:[4,5],suprem:7,surround:5,survei:4,t:[2,5,7,8],tabular:7,takeawai:4,target:7,task:6,taylor:8,techniqu:[3,4],tell:5,test:[0,4,5,6],text:[0,7,8],th:5,than:6,thei:[0,1,2,5,6],them:[1,2,6,7],theoret:8,theta:[0,5],thi:[1,2,5,6],think:[2,5],third:[5,6],three:[4,6],threshold:[3,7],time:[0,2,5,6],tn:[1,7],top:5,total:7,toward:7,tp:[1,7],tradeoff:5,train:[1,3,4,8],transform:[0,6],translat:0,trasform:6,tri:5,trick:5,truth:7,tune:6,two:[6,7],type:[1,2,5,6],typic:6,un:4,unabl:6,uncertainti:4,understand:4,unfair:[1,7],uniform:3,unit:[0,8],unprotect:7,unquant:6,unskil:2,untrain:3,up:[0,5],updat:5,upload:0,upweight:5,uq:8,us:[0,1,2,3,5,6,7,8],user:2,usual:0,v:[4,8],vae:3,valid:6,valu:[2,5,6,7,8],variabl:8,variat:[3,4,5],vastli:6,ve:5,vector:[0,3,5],veri:5,version:4,vgg13:0,via:[0,4],video:6,violat:7,visual:4,voltag:8,vq:[3,4],vs:[4,6],vulner:5,w:3,wa:[5,6,7],wai:[0,2,4,5],want:[0,2,5],wave:8,we:[2,3,5,6,7,8],weak:8,weight:[3,6,8],well:[0,4,6,8],wglmaki:3,what:[2,3,4,5],whatev:2,when:[0,5,6,7],where:[0,5],whether:7,which:[1,5,6],white:7,why:5,widehat:7,without:[2,5],word:0,work:[0,2,4,8],would:[2,5],written:7,x:[0,5],x_:[0,8],x_i:5,xai:2,y3:3,y:[0,3,5,7,8],y_:[5,8],y_i:5,ye:0,year:[4,7],you:5,your:5,z:[3,5],z_1:5,z_2:5,z_:5},titles:["Lossy compression to prevent evasion and poisoning","Critique of \u201c50 Years of Test (Un)fairness\u201d","Critique of Paper 2","Critique of Critique of \u201cFailing Loudly: An Empirical Study of Methods for Detecting Dataset Shift\u201d","Contents","Understanding Black-box Predictions via Influence functions","Proposal: Training on Lossy Encoded Data","A survey on datasets for fairness-aware machine learning","A review of uncertainty quantification in deep learning"],titleterms:{"1":5,"2":[2,5],"50":1,"class":7,"do":5,"function":5,"new":5,A:[7,8],accuraci:7,adapt:3,advanc:3,adversari:5,against:[0,7],aleator:8,an:3,applic:5,approach:[5,6],approxim:[5,8],area:7,audio:0,autoencod:8,awar:7,background:5,backprop:8,balanc:7,baselin:0,bay:8,bayesian:[7,8],between:7,bias:2,black:5,bnn:0,both:7,box:5,can:7,carlo:8,caveat:[5,7],cheaper:5,classif:0,cognit:2,collect:5,compar:5,compress:0,comput:5,construct:5,content:4,context:1,control:2,cook:5,counterfactu:2,critiqu:[1,2,3],data:[1,5,6],dataset:[3,6,7],debug:5,deep:8,defend:0,definit:1,destefano:7,detect:3,differenti:5,dimension:3,discrimint:7,distanc:5,distribut:5,doe:5,dr:3,dropout:8,empir:[3,5],encod:6,ensembl:8,epistem:8,equal:7,evas:0,even:5,exampl:[2,5],exist:5,expens:5,experi:[5,6],fail:3,fair:[1,7],fast:0,featur:0,find:5,forward:8,gradient:0,harm:5,help:5,hessian:5,how:[0,5,7],identifi:5,infer:8,influenc:5,insight:2,interpret:1,interven:7,invers:8,issu:5,laplacian:8,larger:0,learn:[3,7,8],leav:5,leverag:5,loan:2,local:5,loss:5,lossi:[0,6],loudli:3,machin:7,match:0,measur:1,method:[0,3],mislabel:5,mismatch:5,model:[1,5,7],mont:8,motiv:6,name:7,network:[7,8],neural:8,odd:7,one:5,out:5,overfit:5,overview:7,paper:2,pariti:7,percept:0,perturb:0,place:5,poison:0,possibl:6,predict:[5,8],prevent:0,problem:[6,8],propag:8,propos:6,quadrat:5,quantif:8,quantiz:0,reduct:3,refer:8,repay:2,represent:3,review:8,ricci:7,robust:0,roc:7,s:5,sampl:5,sanit:0,score:7,shape:5,shift:3,sign:0,simultan:7,six:2,sourc:8,statist:7,store:5,structur:7,studi:3,summari:[7,8],suppos:1,survei:7,takeawai:[1,2],techniqu:8,test:1,three:7,train:[0,5,6],un:1,uncertainti:8,understand:5,v:7,variat:8,version:5,via:5,visual:0,vq:0,vs:[1,3],wai:7,well:5,what:1,work:5,year:1}})

diff --git a/docs/compress.slides.html b/docs/compress.slides.html
@@ -14927,18 +14927,6 @@ $$ \text{Performance on perturbed test sample} = \begin{cases} \text{label confi
 </div>
 </div>
 </div>
-</div>
-<div class="jp-Cell jp-MarkdownCell jp-Notebook-cell">
-<div class="jp-Cell-inputWrapper">
-<div class="jp-Collapser jp-InputCollapser jp-Cell-inputCollapser">
-</div>
-<div class="jp-InputArea jp-Cell-inputArea"><div class="jp-InputPrompt jp-InputArea-prompt">
-</div><div class="jp-RenderedHTMLCommon jp-RenderedMarkdown jp-MarkdownOutput " data-mime-type="text/markdown">
-<p>* Preliminary results on one image</p>
-
-</div>
-</div>
-</div>
 </div></section></section><section><section>
 <div class="jp-Cell jp-MarkdownCell jp-Notebook-cell">
 <div class="jp-Cell-inputWrapper">
@@ -14977,7 +14965,7 @@ $$ \text{Performance on perturbed test sample} = \begin{cases} \text{label confi
 <div class="jp-InputArea jp-Cell-inputArea"><div class="jp-InputPrompt jp-InputArea-prompt">
 </div><div class="jp-RenderedHTMLCommon jp-RenderedMarkdown jp-MarkdownOutput  celltag_remove-cell" data-mime-type="text/markdown">
 <p style="text-align:center;">
-<img src="_images/CIFAR_compare.png" width=700 height=700 class="center">
+<img src="_images/CIFAR_compare.png" width=650 height=650 class="center">
 </p>
 </div>
 </div>

diff --git a/docs/compress.html b/docs/compress.html
@@ -113,7 +113,6 @@
 <div class="math notranslate nohighlight">
 \[\begin{split} \text{Performance on perturbed test sample} = \begin{cases} \text{label confidence} &amp; \text{label is correct} \\ -\text{label confidence} &amp; \text{label is incorrect} \end{cases}\end{split}\]</div>
 <p><img alt="" src="_images/accuracy_vs_fidelity.png" /></p>
-<p>* Preliminary results on one image</p>
 </section>
 <section id="gradient-matching">
 <h2>Gradient matching<a class="headerlink" href="#gradient-matching" title="Permalink to this headline">¶</a></h2>
